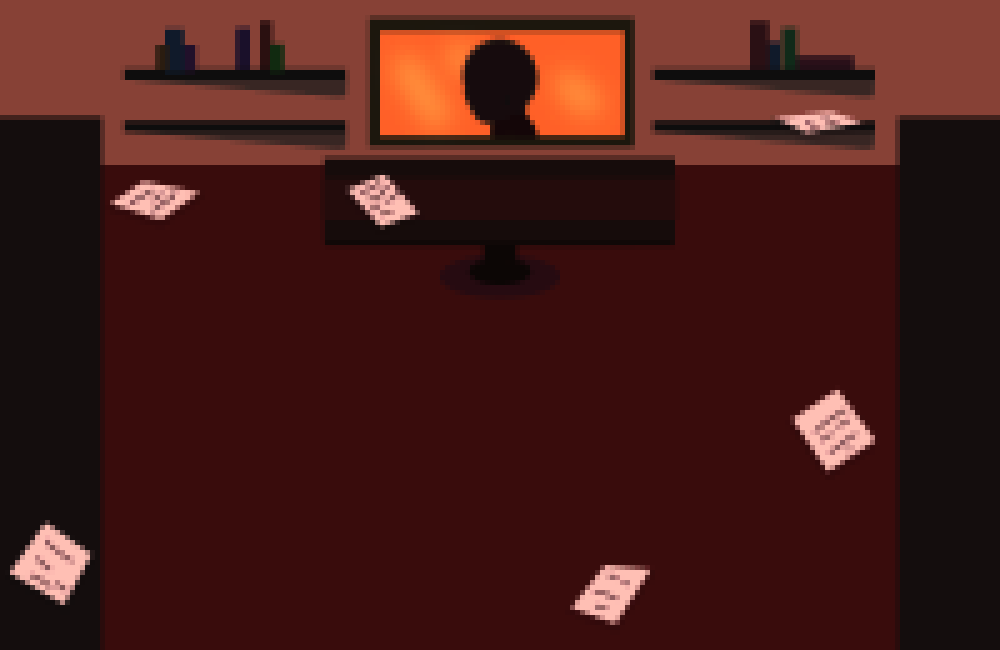
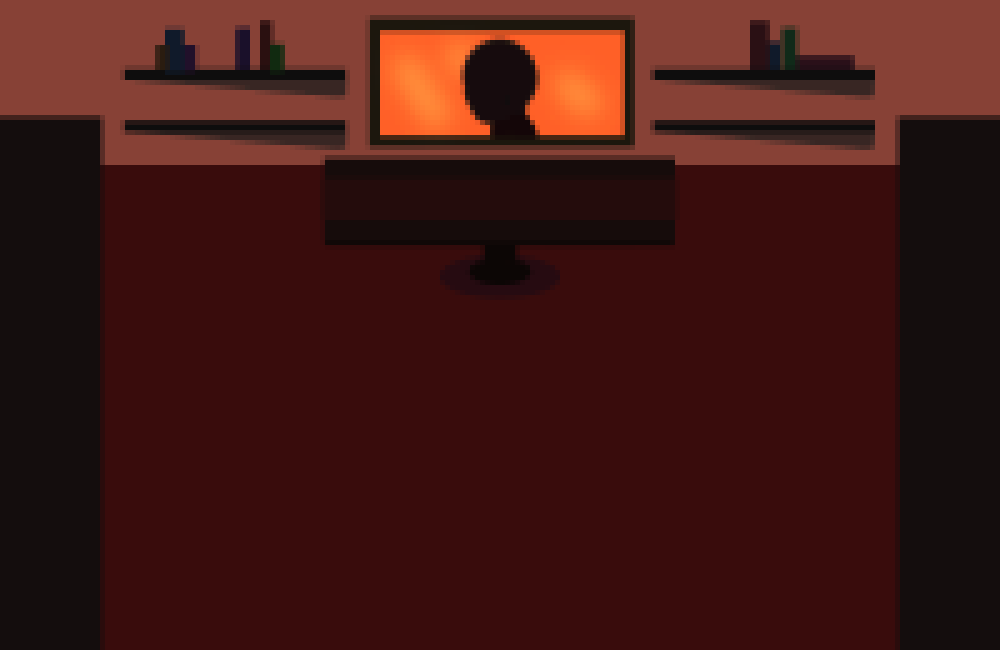
case files ish

diff --git a/Stage3.java b/Stage3.java
@@ -1,6 +1,8 @@
 import javax.swing.*;
 import java.awt.*;
 import java.awt.event.*;
+import java.util.ArrayList;
+import java.util.Collection;
 
 public class Stage3 extends JPanel implements KeyListener, MouseListener
   {
@@ -13,7 +15,12 @@ public class Stage3 extends JPanel implements KeyListener, MouseListener
     int pos;
 
     Image[] introDialogue;
-    
+
+    ArrayList<Image> files;
+    ArrayList<Image> options;
+    ArrayList<Integer> answers;
+    Image[] caseDialogue;
+
     public Stage3 (Game g)
     {
         game = g;
@@ -24,6 +31,21 @@ public class Stage3 extends JPanel implements KeyListener, MouseListener
 
         pause = true;
         pos = 0;
+
+        files = new ArrayList<Image>();
+        options = new ArrayList<Image>();
+        answers = new ArrayList<Integer>();
+        for(int i = 1; i < 7; i++) {
+            files.add(ImageReader.reader("res/stage3/files/" + i + ".png"));
+            options.add(ImageReader.reader("res/stage3/files/" + i + ".png"));
+        }
+
+        answers.add(1);
+        answers.add(3);
+        answers.add(3);
+        answers.add(2);
+        answers.add(4);
+        answers.add(2);
 
         this.setFocusable(true); // Allows the class to receive user input
         this.addKeyListener(this);
@@ -39,6 +61,11 @@ public class Stage3 extends JPanel implements KeyListener, MouseListener
         this.requestFocus();
         Game.graphics.drawImage (background, 0, 0, null); 
         //Game.graphics.drawImage (sprite.getSprite(), sprite.getXPos(), sprite.getYPos(), null);
+        if(pos >= 7) {
+            for(int i = 0; i < files.size(); i++) {
+                Game.graphics.drawImage(files.get(i), 0, 0, null);
+            }
+        }
         if(!pause) {
             dSprite = new Thread(new DrawSprite(Game.graphics));
             dSprite.run();
